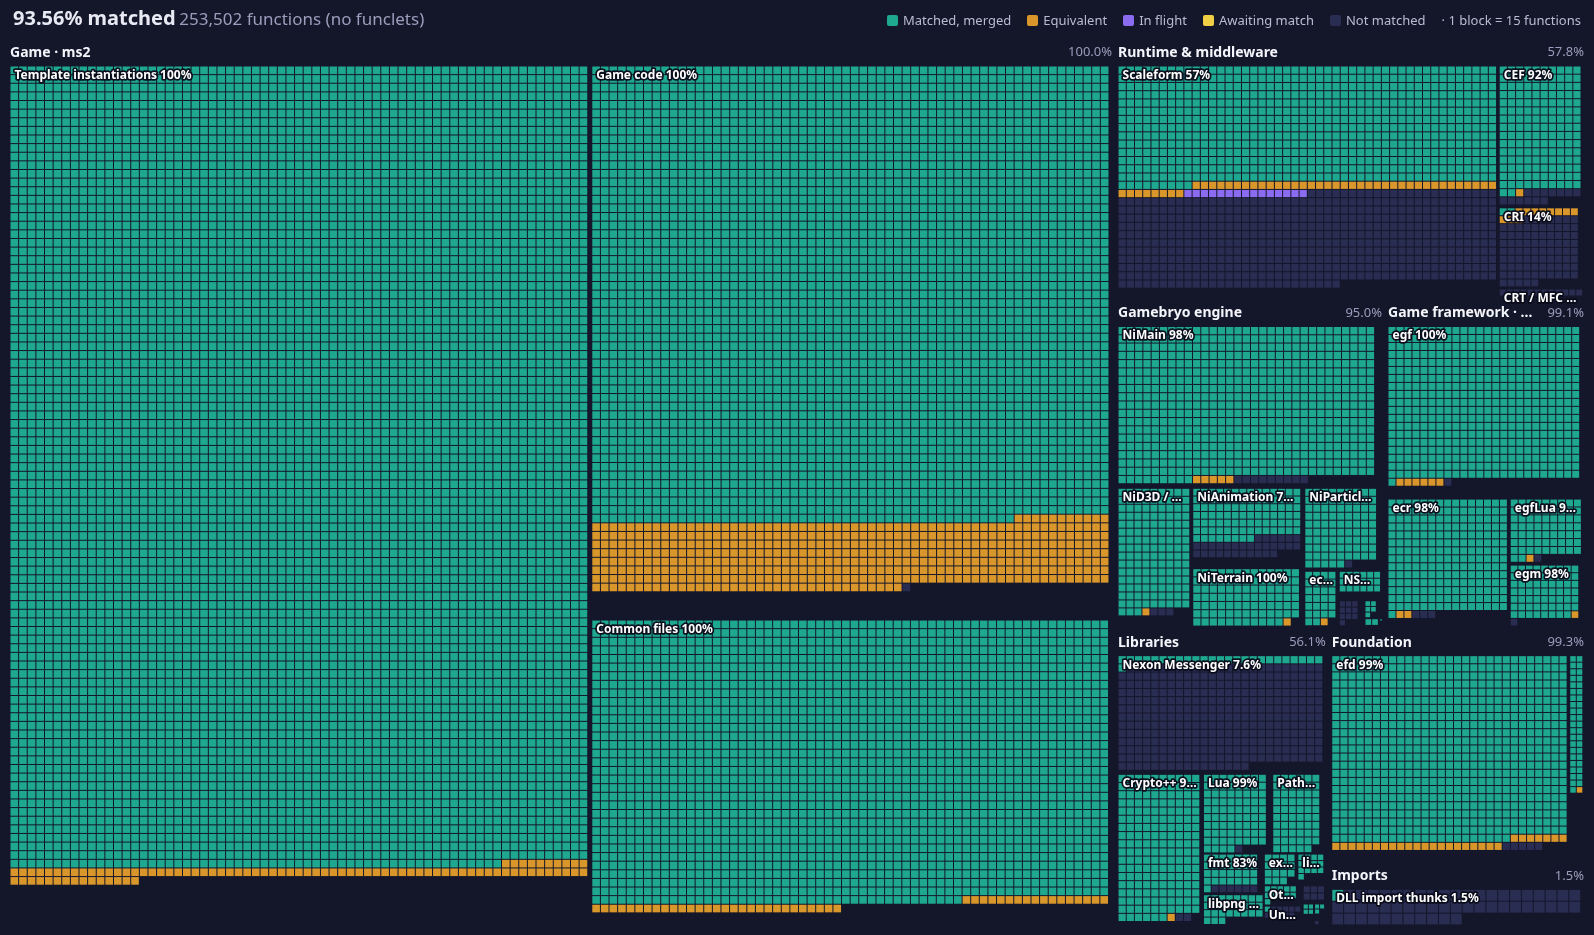
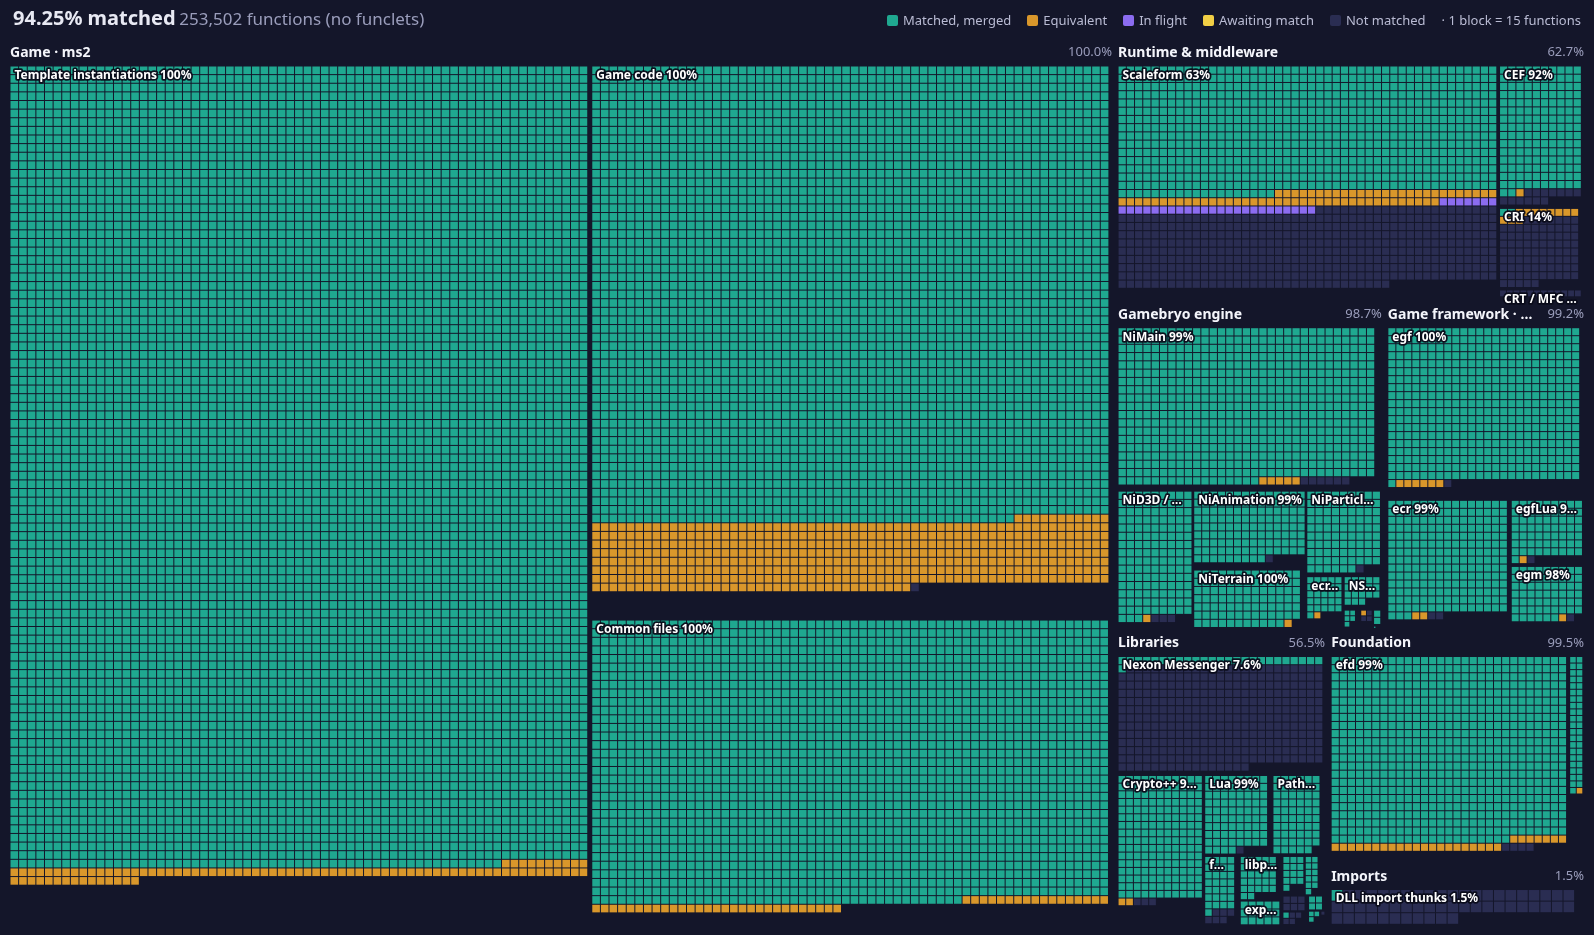
README: refresh progress image and table

diff --git a/README.md b/README.md
@@ -25,14 +25,14 @@ Merged totals by area (functions in the original executable; regenerated on each
 <!-- progress:start -->
 | Area | Functions | Matched | Equivalent | Done |
 |---|---:|---:|---:|---:|
-| Game · ms2 | 179,364 | 170,263 (94.9%) | 9,087 (5.1%) | 100.0% |
-| Runtime & middleware | 22,411 | 12,095 (54.0%) | 866 (3.9%) | 57.8% |
-| Gamebryo engine | 16,198 | 15,279 (94.3%) | 115 (0.7%) | 95.0% |
-| Game framework · egf | 12,121 | 11,881 (98.0%) | 134 (1.1%) | 99.1% |
-| Libraries | 11,623 | 6,497 (55.9%) | 25 (0.2%) | 56.1% |
-| Foundation | 11,003 | 10,498 (95.4%) | 431 (3.9%) | 99.3% |
+| Game · ms2 | 179,368 | 170,262 (94.9%) | 9,088 (5.1%) | 100.0% |
+| Runtime & middleware | 22,515 | 12,947 (57.5%) | 1,166 (5.2%) | 62.7% |
+| Gamebryo engine | 16,171 | 15,835 (97.9%) | 133 (0.8%) | 98.7% |
+| Game framework · egf | 12,115 | 11,888 (98.1%) | 134 (1.1%) | 99.2% |
+| Libraries | 11,556 | 6,502 (56.3%) | 25 (0.2%) | 56.5% |
+| Foundation | 10,995 | 10,505 (95.5%) | 430 (3.9%) | 99.5% |
 | Imports | 782 | 11 (1.4%) | 1 (0.1%) | 1.5% |
-| **Total** | **253,502** | 226,524 (89.4%) | 10,659 (4.2%) | 93.6% |
+| **Total** | **253,502** | 227,950 (89.9%) | 10,977 (4.3%) | 94.3% |
 <!-- progress:end -->
 
 ## Layout
